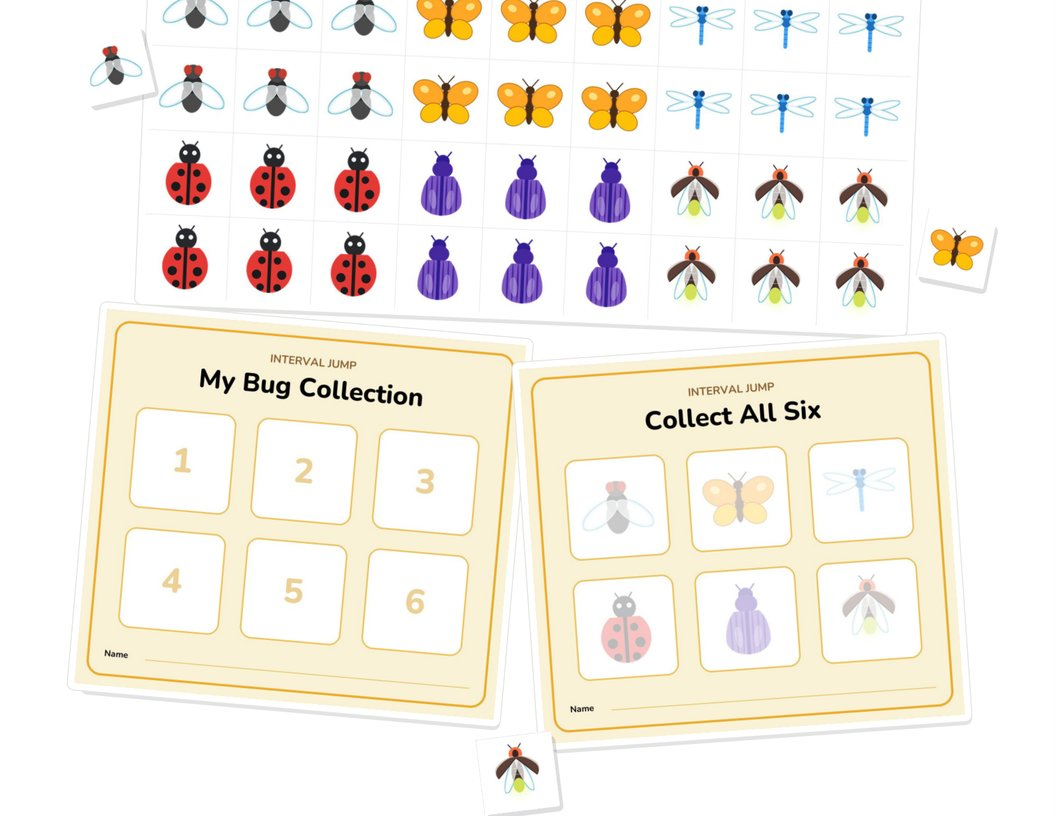
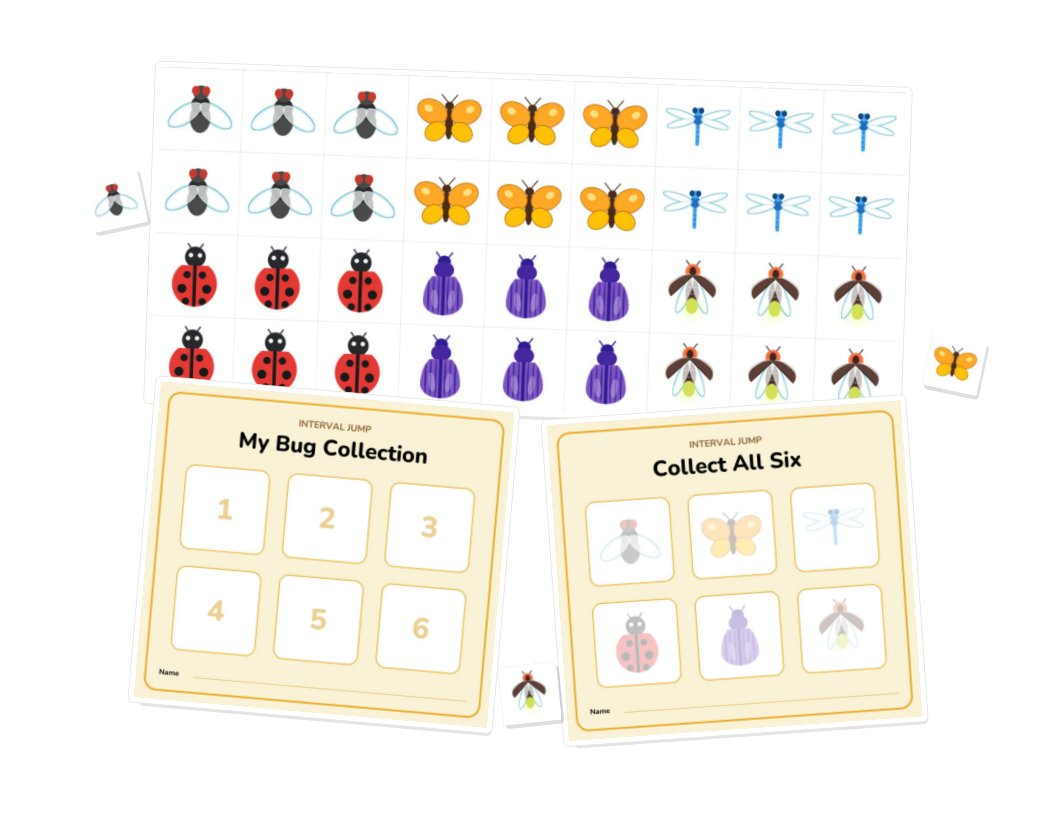
Compose the bug collection thumbnail instead of cropping the cover
Cropping the portrait cover to the card list's landscape aspect cut the
sheet on all four edges — the top row of bugs was sliced mid-body, and the
Collect All Six card and the foot sticker ran off the frame. Against five
neighbours that each show a whole cover page, that read as damage rather
than as a frame.

The builder now has a --thumb mode that lays the same three pieces out on
a landscape page of their own, so nothing is clipped. Rendered at 96 dpi a
landscape Letter page is 1056x816, which is exactly what the other cards
carry, so the row heights stay level.

diff --git a/tools/build-interval-jump-cover.py b/tools/build-interval-jump-cover.py
@@ -2,7 +2,8 @@
 """Build the two-page cover that leads the Interval Jump Bug Collection printable.
 
     pip install reportlab pymupdf qrcode
-    python3 tools/build-interval-jump-cover.py
+    python3 tools/build-interval-jump-cover.py <cover.pdf>
+    python3 tools/build-interval-jump-cover.py --thumb <card.jpg>
 
 Same cover language as the Bees Keys printables — eyebrow, hairline rule, light
 title, a fanned preview of the real sheets, and a footer bar — with two
@@ -54,12 +55,16 @@ PAD = f"{IJ}/IntervalJump/assets/Assets.xcassets/river/lily-pad.imageset/lily-pa
 ART = f"{IJ}/printables/art"
 SHEETS = f"{IJ}/printables"
 
-OUT = sys.argv[1] if len(sys.argv) > 1 else "/tmp/interval-jump-bug-collection-cover.pdf"
+OUT = sys.argv[1] if len(sys.argv) > 1 and not sys.argv[1].startswith("-") \
+    else "/tmp/interval-jump-bug-collection-cover.pdf"
 
 APP_STORE = "https://apps.apple.com/us/app/interval-jump-read-music-fast/id6736377103"
 SITE_URL = "https://beeskeysapp.com"
 
 W, H = letter  # portrait, unlike every Bees Keys cover
+# The resources.html card list is landscape whatever the printable is, so the
+# thumbnail is composed on a landscape page of its own.
+THUMB_W, THUMB_H = letter[1], letter[0]
 
 # Bees Keys cover furniture (ink, muted, hairline) so the two sit in one family,
 # over Interval Jump's own palette: azul and cerulean from `colors/*.colorset`,
@@ -397,8 +402,53 @@ def page_two(c, qr):
     c.showPage()
 
 
+def page_thumb(c, strip, six, ghost, loose):
+    """The landscape thumbnail for the resources.html card list.
+
+    Cropping the portrait cover to landscape was the obvious shortcut and the
+    wrong one: it cut the sheet on all four edges, slicing bugs mid-body, which
+    reads as damage rather than as a frame. Every other card in that list shows
+    a whole cover page, so this composes the same three pieces afresh at the
+    list's own aspect, with nothing running off an edge.
+    """
+    c.setFillColor(white)
+    c.rect(0, 0, THUMB_W, THUMB_H, fill=1, stroke=0)
+
+    paper(c, strip, 396, 428, 560, angle=-2.0)
+    paper(c, six, 243, 196, 266, angle=-5.0)
+    paper(c, ghost, 551, 184, 266, angle=4.0)
+
+    loose_sticker(c, loose[0], 86, 462, 42, 12)
+    loose_sticker(c, loose[1], 716, 340, 42, -12)
+    loose_sticker(c, loose[2], 397, 92, 44, 6)
+
+    c.showPage()
+
+
+def write_thumb(path, strip, six, ghost, loose):
+    """Render the thumbnail page to the JPG the card list loads.
+
+    96 dpi over a landscape Letter page is 1056x816 — the exact size the other
+    five cards carry, so the row heights stay level.
+    """
+    buf = io.BytesIO()
+    c = canvas.Canvas(buf, pagesize=(THUMB_W, THUMB_H))
+    page_thumb(c, strip, six, ghost, loose)
+    c.save()
+
+    doc = pymupdf.open(stream=buf.getvalue(), filetype="pdf")
+    pix = doc[0].get_pixmap(dpi=96)
+    im = Image.frombytes("RGB", (pix.width, pix.height), pix.samples)
+    doc.close()
+    im.save(path, quality=85)
+    print(f"{path}: {im.width}x{im.height}")
+
+
 def main():
     strip, six, ghost, loose = crops()
+    if "--thumb" in sys.argv:
+        write_thumb(sys.argv[sys.argv.index("--thumb") + 1], strip, six, ghost, loose)
+        return
     qr = qr_image()
     c = canvas.Canvas(OUT, pagesize=(W, H))
     c.setTitle("Bug Collection Sticker Sheets - Interval Jump")
